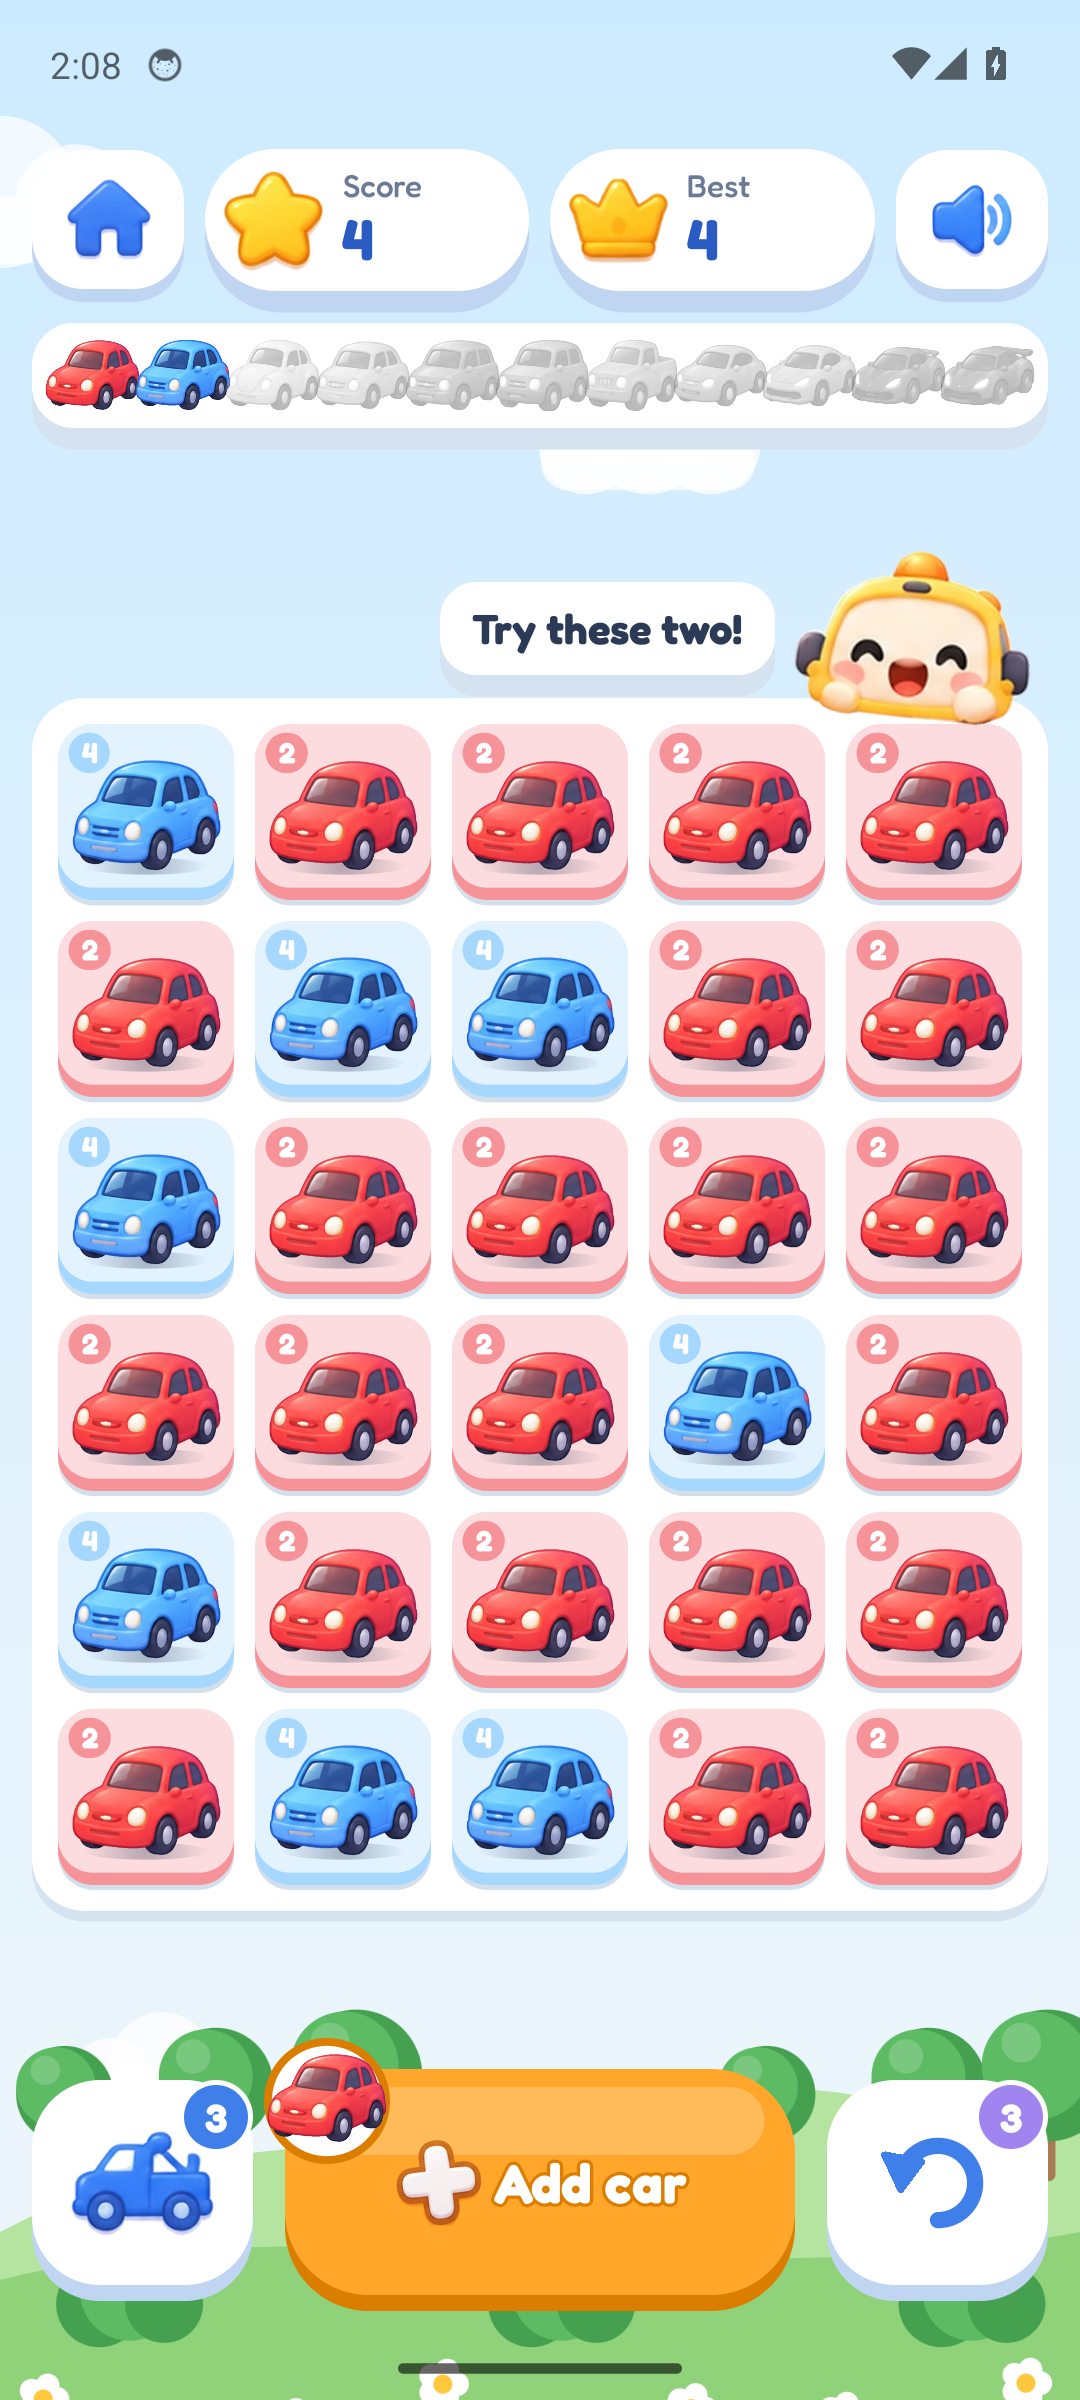
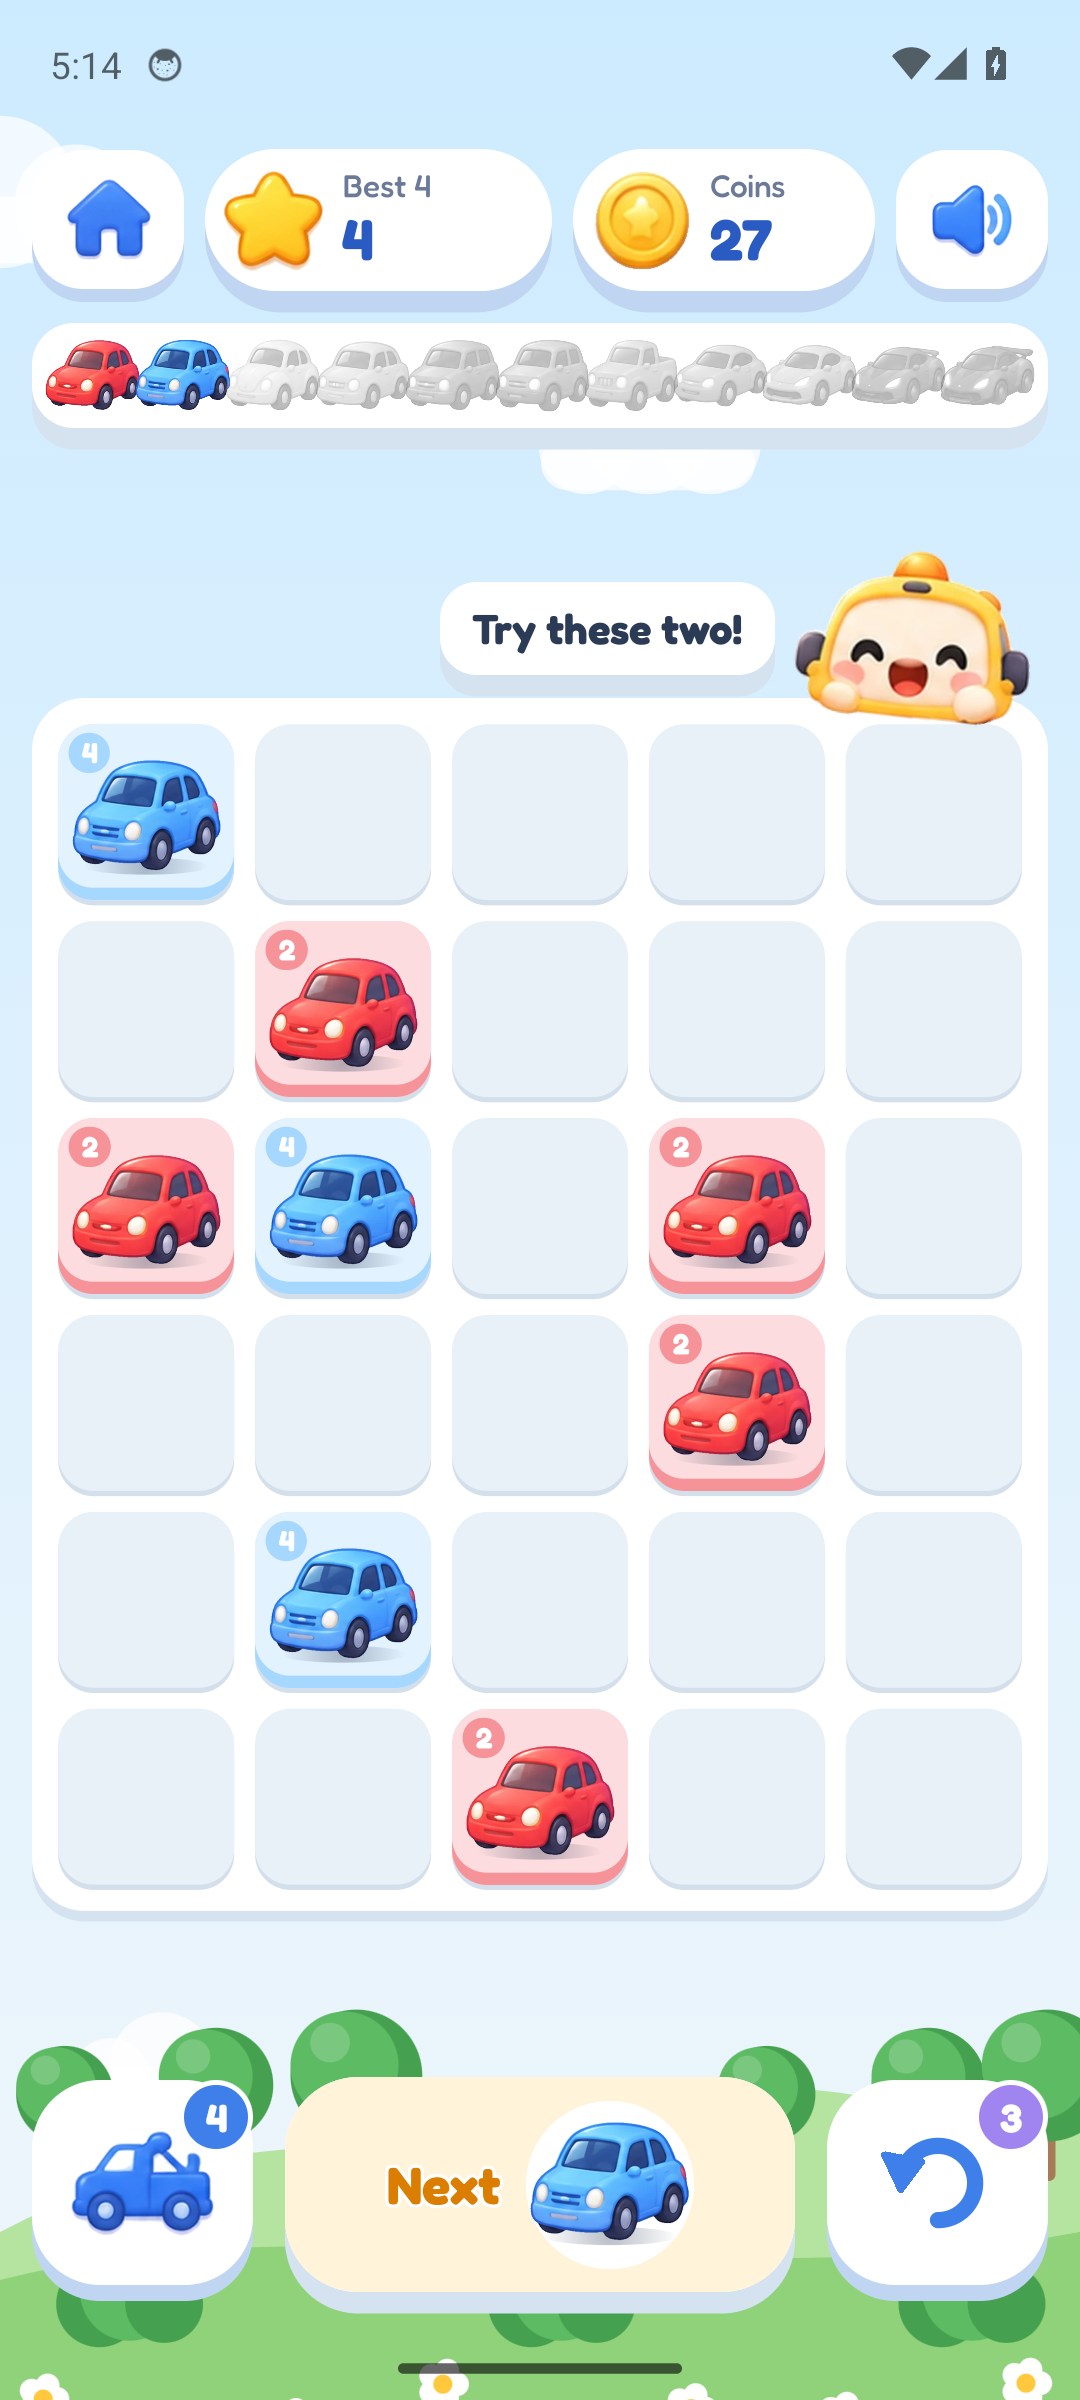
Store screenshots and test notes; remove temporary screenshot workflow
Claude-Session: https://claude.ai/code/session_01TABBkMBqBzvjsnbFysiC9Y

diff --git a/README.md b/README.md
@@ -190,9 +190,11 @@ checked on the device only; there is no server-side receipt check.
   coins), damaged saves, and a real DataStore round trip that simulates process death.
 * **Lint:** no issues in debug or release.
 * **Emulator (Android 14, Pixel 6 profile, in GitHub Actions):** `scripts/smoke-test.sh` passed:
-  launch, daily gift, Play, Add car, drag-merge, tutorial, tow, 30 rapid Add car taps until the
-  board was full (plus taps on the full board), process death and resume with the same board,
-  back button, Garage, Settings, and 1500 random taps with animations on, with no crash.
+  launch, daily gift (+25 coins), Play, drag-merge (7 cars stay 7 because a new car arrives; City
+  hatches 2 → 3), tutorial, move to an empty space (7 → 8), tow (8 → 7), moving cars until the
+  board was full (30), process death and resume with the same board, back button, Store (Themes
+  and Coins tabs; the test reward video loaded), Garage with a test banner, Settings, and 1500
+  random taps with animations on, with no app crash.
 * **APK checks:** release APK is about 4.7 MB (AAB 8.4 MB), targets SDK 36. Permissions:
   INTERNET, ACCESS_NETWORK_STATE, WAKE_LOCK and FOREGROUND_SERVICE (needed by AdMob) and
   BILLING (Google Play); the advertising ID and Privacy Sandbox ad permissions are removed.

diff --git a/STORE_LISTING.md b/STORE_LISTING.md
@@ -102,5 +102,5 @@ Check it against Google's current AdMob guidance before you submit
 1. Home screen with the logo, Towy and the driving cars (`store/screenshots/1_home.png`).
 2. Game board mid-play with several car levels (`2_game.png`).
 3. The Garage sticker book (`3_garage.png`).
-4. The Store with board themes.
+4. The Store with board themes (`4_store_themes.png`).
 5. A "New car!" ribbon and the Hypercar celebration.
